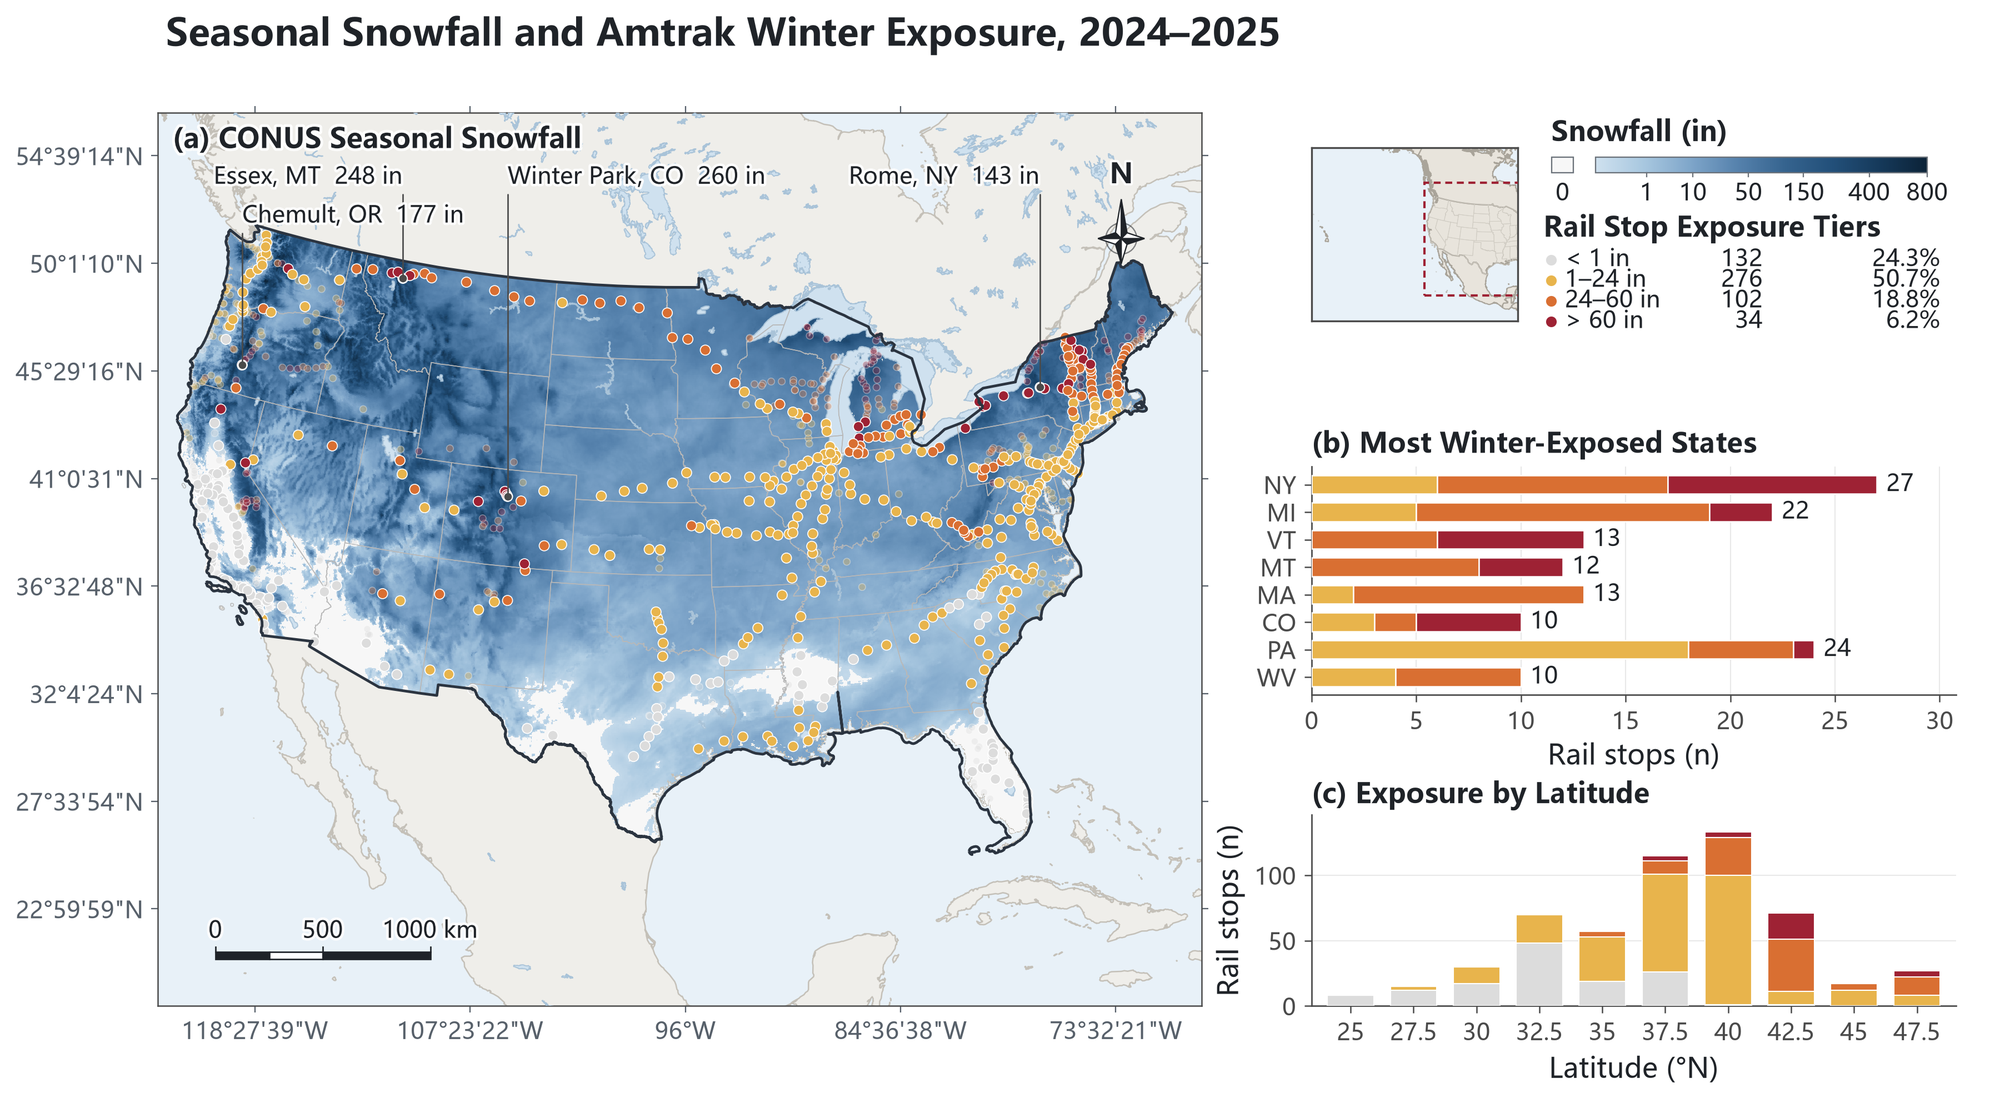
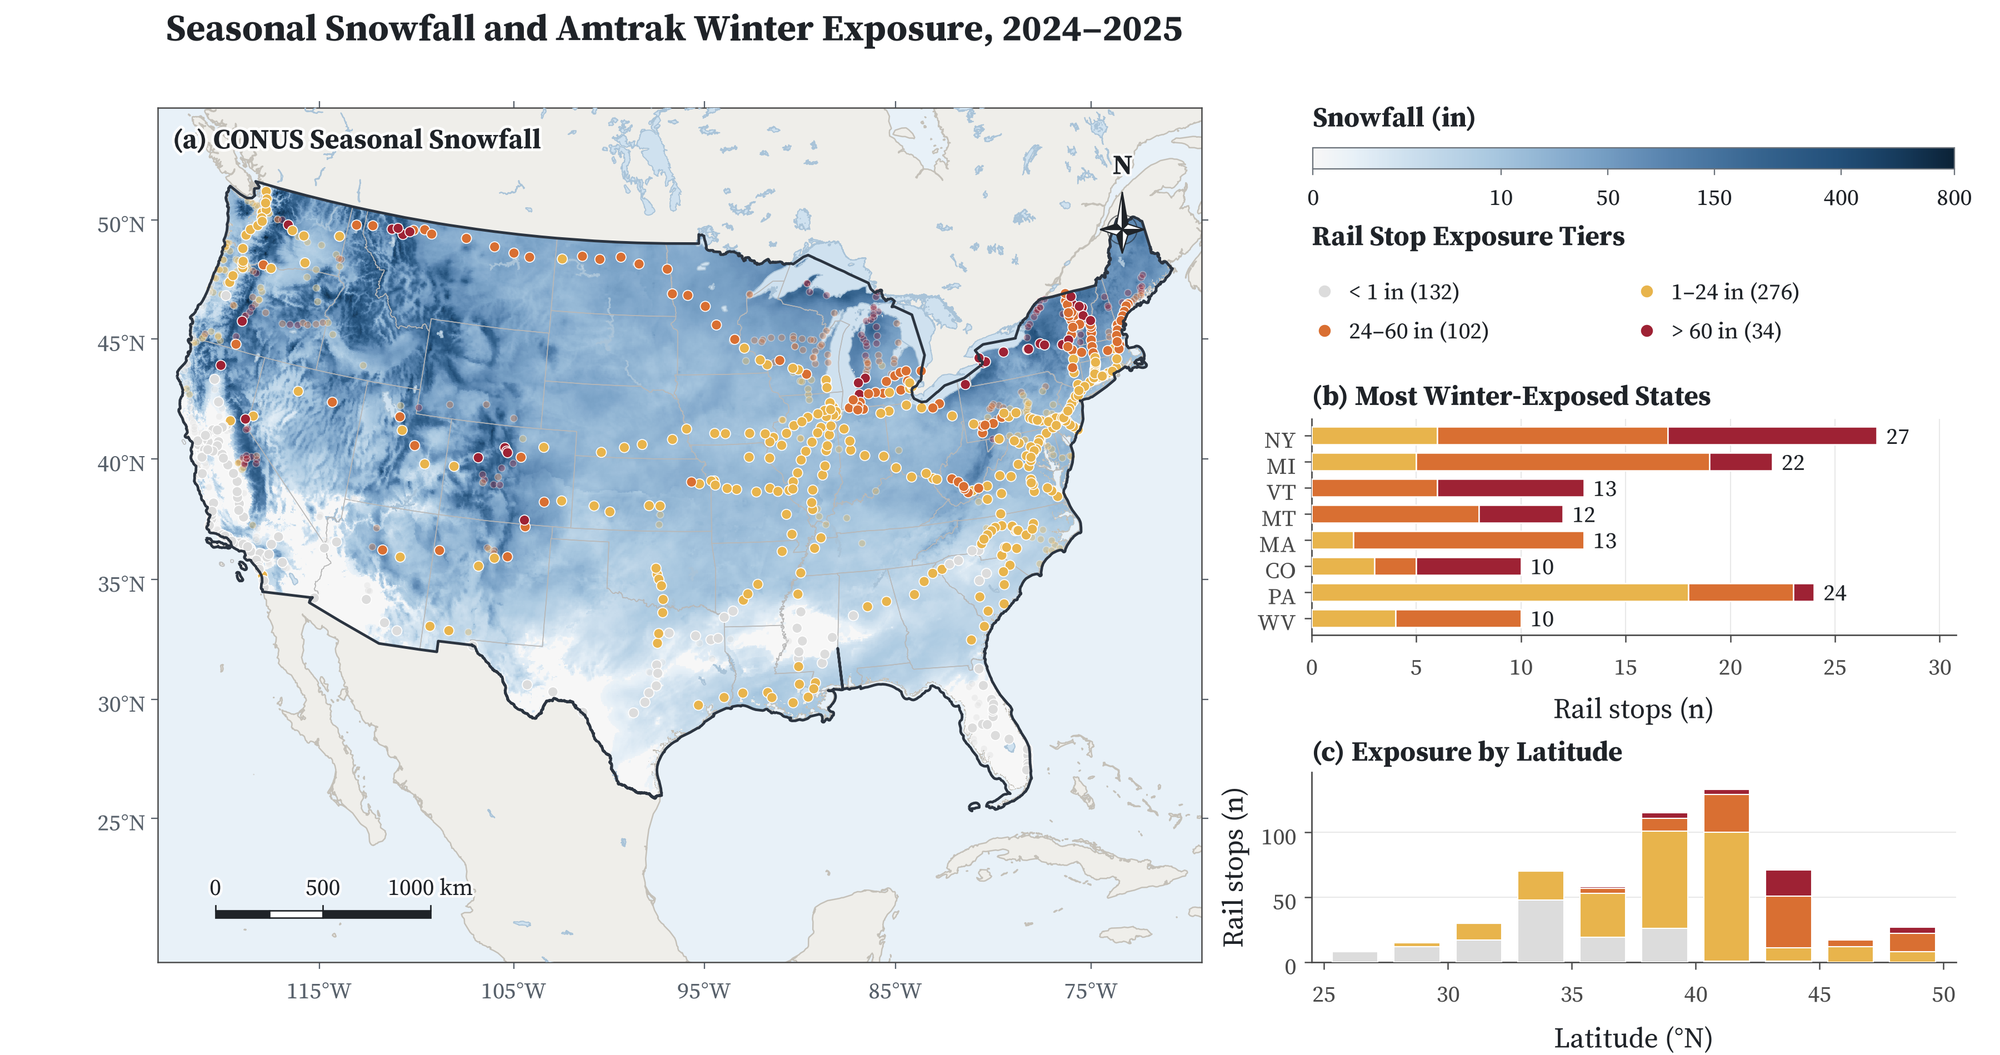
docs(showcase): manually polish promo showcase maps for README

diff --git a/README.md b/README.md
@@ -24,12 +24,12 @@
 OpenGIS-Agent autonomously plans visual hierarchy, projection selection, skewed perceptual normalization, layer z-ordering, and non-overlapping typography—delivering both **multi-panel scientific composites** and **clean study-area locator maps** as `300 dpi` PNGs alongside **editable `<text>` layered SVGs** for Illustrator / Inkscape / Figma refinement.
 
 ### 1. Publication Multi-Panel Scientific Composite
-*Asymmetric 62/38 GridSpec composite linking spatial snowfall surfaces (`nordic_snow` + `build_perceptual_norm`), Amtrak exposure tiers with broken-line-free national border z-ordering, continuous gradient legend, state rankings, and latitudinal exposure profiles (`6.51 MB` editable SVG).*
+*Asymmetric 62/38 GridSpec composite in bundled SIL OFL `Source Serif 4` print typography linking seamless `0–800 in` snowfall surfaces (`build_perceptual_norm`), Amtrak exposure tiers with broken-line-free national border z-ordering, integer graticules, state rankings, and latitudinal exposure profiles (`5.90 MB` editable SVG).*
 
 ![CONUS Seasonal Snowfall and Amtrak Winter Exposure Scientific Composite](assets/showcase_conus_scientific_composite.png)
 
 ### 2. Standard Study-Area Locator Map
-*Map-first research locator featuring uncolored-yet-bordered neighbor context, bundled SIL OFL `Source Serif 4` print typography, compact circular globe inset, bespoke compass star + lower-zone cartographic scalebar, and crisp 4-sided DMS coordinates (`8.14 MB` editable SVG).*
+*Map-first research locator featuring uncolored-yet-bordered neighbor context, bundled SIL OFL `Source Serif 4` print typography, compact circular globe inset, centered framed legend, bespoke compass star + lower-zone cartographic scalebar, and integer 4-sided graticules (`8.51 MB` editable SVG).*
 
 ![Rondônia Study Area Locator Map](assets/showcase_rondonia_study_area.png)
 
